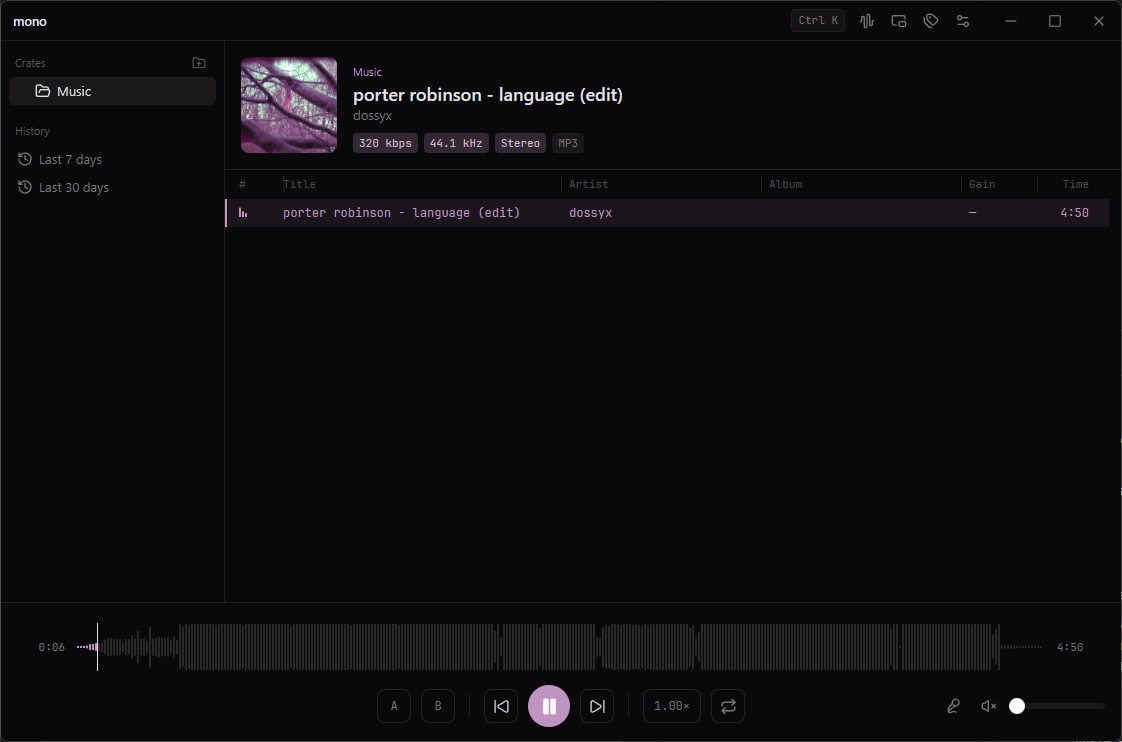
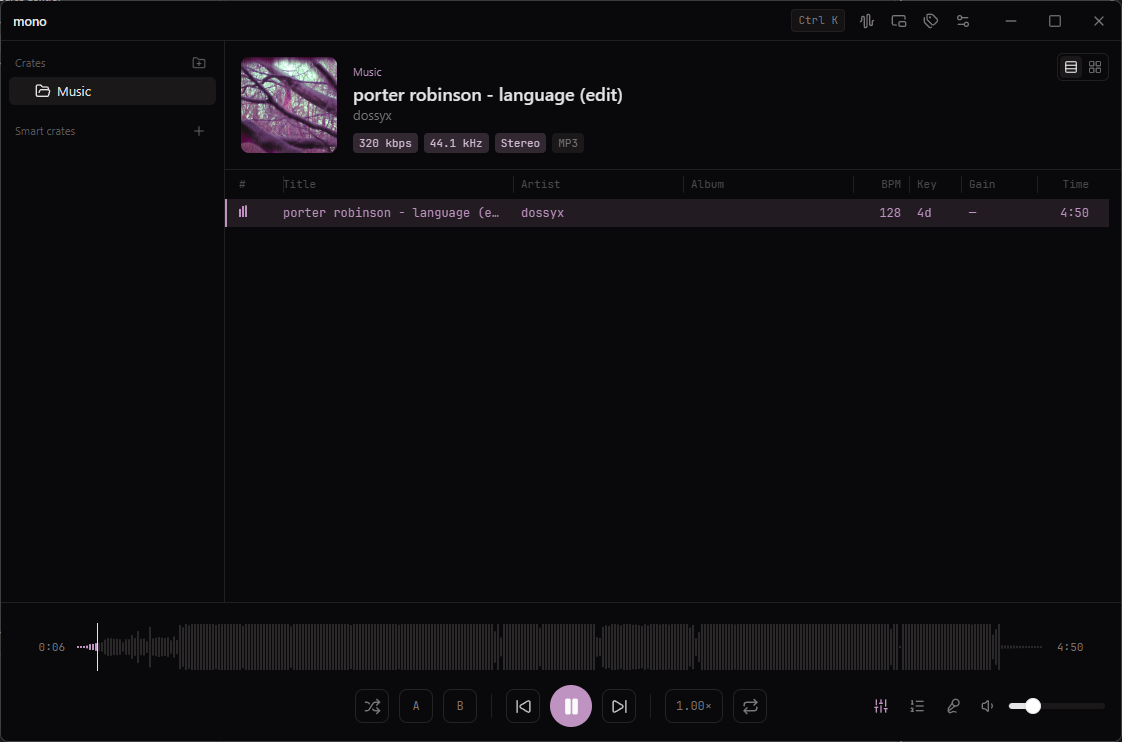
Refactor code structure for improved readability and maintainability

diff --git a/CHANGELOG.md b/CHANGELOG.md
@@ -5,24 +5,15 @@ The format follows [Keep a Changelog](https://keepachangelog.com/en/1.1.0/), and
 
 ## [Unreleased]
 
+## [0.4.0] - 2026-11-23
+
+Mono grows from a player into a small music workstation: a queue, smart crates, BPM and key detection, a parametric equaliser and a few more ways to see your music. It also feels quicker, with lighter cover loading and motion throughout.
+
 ### Performance
 - **Covers load as images, not text.** Album art used to be read at full size and sent to the window as a long text string for every cover; it's now served directly to the page, with small thumbnails made once and kept on disk. The album grid fills in faster, and large embedded art no longer has to be converted on every track change.
 - **Theme and cover-accent changes no longer restyle the whole window on every frame.** The colour change now crossfades as a single snapshot.
 - Sorting large crates is faster (one shared text comparer instead of building a new one per comparison).
 - The theater view, album grid, tag editor, equaliser, smart crate editor and settings load in their own chunks, fetched once the app is idle, so startup does less work.
-
-### Added
-- **Motion throughout**, all short (under 400 ms), and switched off when Windows' *Show animations* setting is off:
-  - Theater mode and albums zoom out of the cover you clicked and shrink back into it.
-  - Dialogs and side panels spring in; settings pages crossfade, with the highlight sliding between them.
-  - The cover and title crossfade on track change, the play button morphs between play and pause, and shuffle and repeat pop when turned on.
-  - Albums and album tracks appear in a quick stagger, and the track list rises in when you switch crates.
-  - Equaliser nodes grow on hover, pop in when added and shrink away when deleted, and the curve glides between presets.
-  - Buttons press in slightly when clicked.
-
-## [0.4.0] - 2026-11-22
-
-Mono grows from a player into a small music workstation: a queue, smart crates, BPM and key detection, a parametric equaliser and a few more ways to see your music.
 
 ### Added
 - **Queue**: *Play next* and *Add to queue* from the track list's right-click menu, an **Up next** panel (`Q`) to reorder by dragging, remove or jump to tracks, and **Shuffle** (`S`), which shuffles what's left and restores the original order when turned off.
@@ -41,8 +32,16 @@ Mono grows from a player into a small music workstation: a queue, smart crates, 
 - Mono is released under the MIT License (`LICENSE`).
 - **Album art in the Discord status**, like Spotify: the cover is shown large with the mono logo as a small badge. Discord can only display images from a public link, so the cover is looked up on iTunes (*Album art in Discord*, on by default when Discord is enabled); with no match the mono logo is shown instead.
 - Logo files in `docs/brand/`, including a 1024 px square version for the Discord application's `mono` art asset.
+- **Motion throughout**, all short (under 400 ms), and switched off when Windows' *Show animations* setting is off:
+  - Theater mode and albums zoom out of the cover you clicked and shrink back into it.
+  - Dialogs and side panels spring in; settings pages crossfade, with the highlight sliding between them.
+  - The cover and title crossfade on track change, the play button morphs between play and pause, and shuffle and repeat pop when turned on.
+  - Albums and album tracks appear in a quick stagger, and the track list rises in when you switch crates.
+  - Equaliser nodes grow on hover, pop in when added and shrink away when deleted, and the curve glides between presets.
+  - Buttons press in slightly when clicked.
 
 ### Changed
+- The equaliser is now parametric. Settings from the previous 10-band equaliser aren't carried over, so the equaliser starts flat after updating.
 - Settings is wider and split into pages (Library, Playback, Sound, Sleep timer, Appearance, Services, About) with grouped options.
 - The logo's waveform bars are now exactly centred (they sat 8 px left), in the app icon too.
 
@@ -52,6 +51,7 @@ Mono grows from a player into a small music workstation: a queue, smart crates, 
 ### Documentation
 - Shorter README: features as a single list, screenshots in a grid, a compact benchmark table and shortcuts on one line.
 - Added an AI disclosure and the license to the README.
+- README screenshots come first and include the equaliser and settings; the feature list moved below.
 
 ## [0.3.0] - 2026-11-22
 

diff --git a/README.md b/README.md
@@ -9,30 +9,14 @@
   <img src="docs/screenshots/theater.png" alt="Mono in theater mode, showing large cover art" width="820">
 </p>
 
-## Features
-
-- **Your folders are your library.** Add a folder; its sub-folders and playlists appear as crates. No importing, and changes on disk show up on their own. Untagged files get their artist and title from the file name, with optional online lookup for albums and cover art.
-- **Gapless and even.** Mixes and live albums play without gaps, and loud and quiet tracks play at the same level (ReplayGain).
-- **Waveform seek bar, A–B loop, and separate speed and pitch control** for learning parts or digging into a section.
-- **Theater mode and synced lyrics** (`F`), fullscreen with `F11`.
-- **Search everything** with `Ctrl+K`.
-- **Meters:** spectrum, spectrogram, oscilloscope, vectorscope, peak and loudness, on `V`.
-- **Mini player** that stays on top (`M`) and scales as you resize it.
-- **Themes**, including frosted glass and your own colours; the accent can follow the album art.
-- **Queue, Play next and shuffle**, plus smart crates built from rules and an album grid.
-- **BPM and key detection** (Camelot or musical keys), sortable columns you choose, and multi-select tag editing.
-- **Parametric equaliser** (`E`) with up to 16 draggable bands over a live analyser, plus headphone crossfeed and crossfade.
-- **Sleep timer** and resume where you left off, even mid-way through long mixes.
-- **Lyrics sync tool** to time your own lyrics, and lyrics in the mini player.
-- **Tag and cover-art editing**, listening history, optional Discord status with album art, and automatic updates.
-- **Opens with your files**: set Mono as the player for your audio files, and anything you open goes to the window that's already running.
-
-Plays MP3, FLAC, WAV, OGG and M4A/AAC.
-
 <table>
   <tr>
     <td><img src="docs/screenshots/main.png" alt="Main window"></td>
+    <td><img src="docs/screenshots/equaliser.png" alt="Parametric equaliser"></td>
+  </tr>
+  <tr>
     <td><img src="docs/screenshots/visualiser.png" alt="Visualiser"></td>
+    <td><img src="docs/screenshots/settings.png" alt="Settings"></td>
   </tr>
   <tr>
     <td><img src="docs/screenshots/palette.png" alt="Command palette"></td>
@@ -56,6 +40,26 @@ Same MP3 in every player, Ryzen 7 5700X3D, Windows 11:
 ## Shortcuts
 
 `Space` play/pause · `←` `→` seek (`Shift` for 30 s) · `N` `P` next/previous · `Q` up next · `S` shuffle · `E` equaliser · `[` `]` `\` loop A/B/clear · `0` reset speed and pitch · `R` repeat · `F` theater · `F11` fullscreen · `V` visualiser · `M` mini player · `T` tags · `Ctrl+K` search · `Ctrl+,` settings
+
+## Features
+
+- **Your folders are your library.** Add a folder; its sub-folders and playlists appear as crates. No importing, and changes on disk show up on their own. Untagged files get their artist and title from the file name, with optional online lookup for albums and cover art.
+- **Gapless and even.** Mixes and live albums play without gaps, and loud and quiet tracks play at the same level (ReplayGain).
+- **Waveform seek bar, A–B loop, and separate speed and pitch control** for learning parts or digging into a section.
+- **Theater mode and synced lyrics** (`F`), fullscreen with `F11`.
+- **Search everything** with `Ctrl+K`.
+- **Meters:** spectrum, spectrogram, oscilloscope, vectorscope, peak and loudness, on `V`.
+- **Mini player** that stays on top (`M`) and scales as you resize it.
+- **Themes**, including frosted glass and your own colours; the accent can follow the album art.
+- **Queue, Play next and shuffle**, plus smart crates built from rules and an album grid.
+- **BPM and key detection** (Camelot or musical keys), sortable columns you choose, and multi-select tag editing.
+- **Parametric equaliser** (`E`) with up to 16 draggable bands over a live analyser, plus headphone crossfeed and crossfade.
+- **Sleep timer** and resume where you left off, even mid-way through long mixes.
+- **Lyrics sync tool** to time your own lyrics, and lyrics in the mini player.
+- **Tag and cover-art editing**, listening history, optional Discord status with album art, and automatic updates.
+- **Opens with your files**: set Mono as the player for your audio files, and anything you open goes to the window that's already running.
+
+Plays MP3, FLAC, WAV, OGG and M4A/AAC.
 
 ## Notes
 
